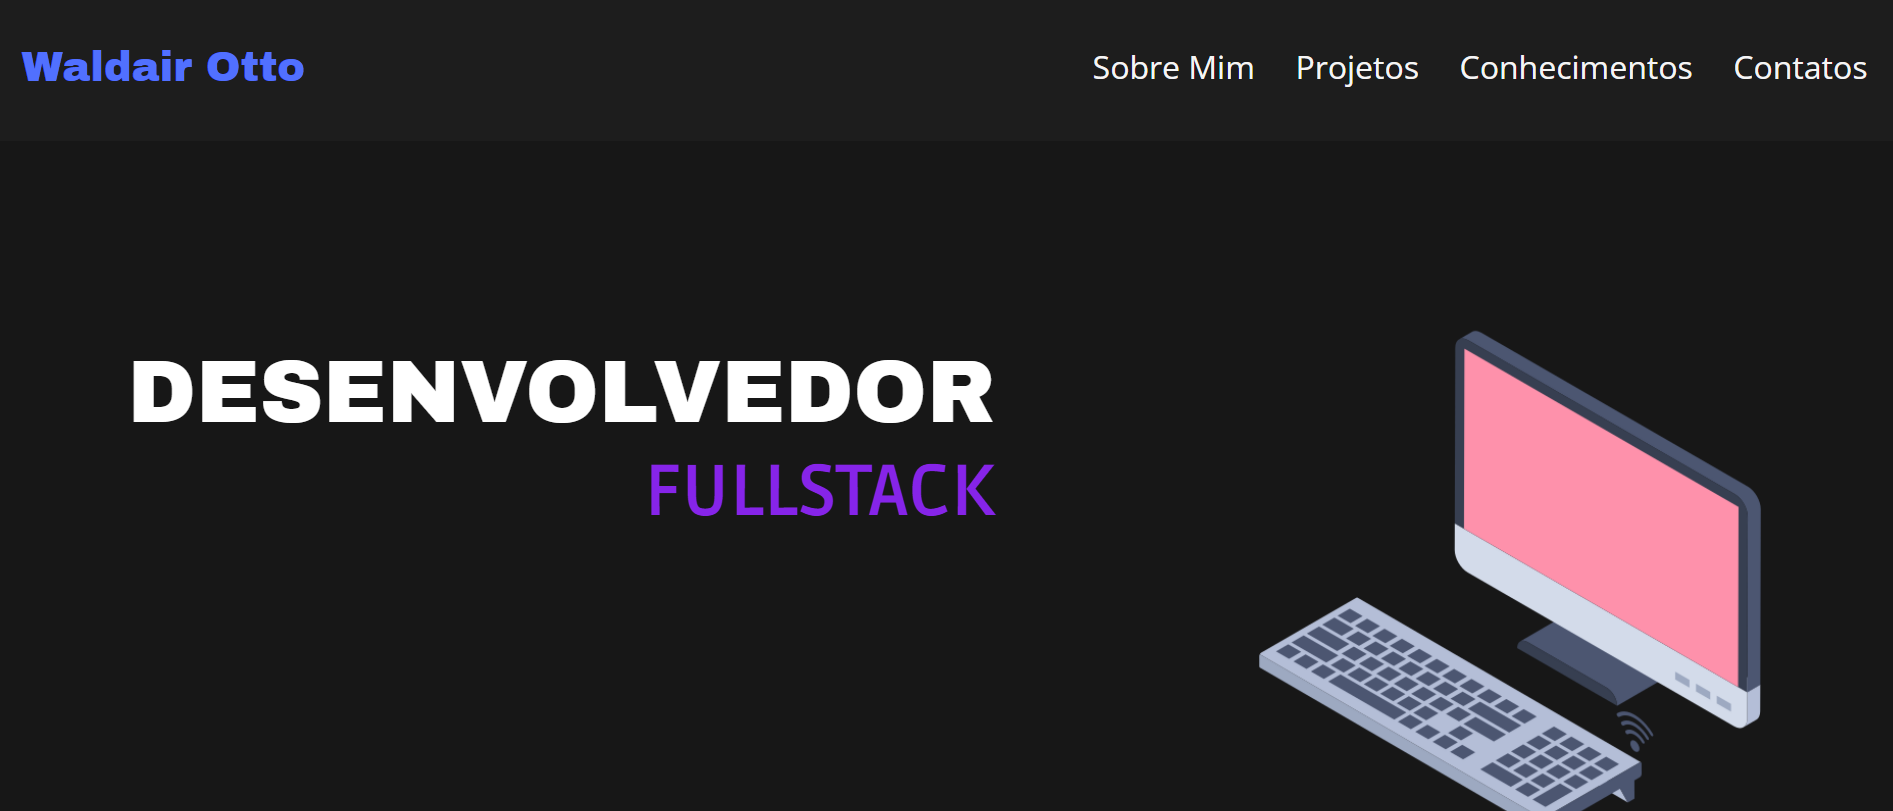
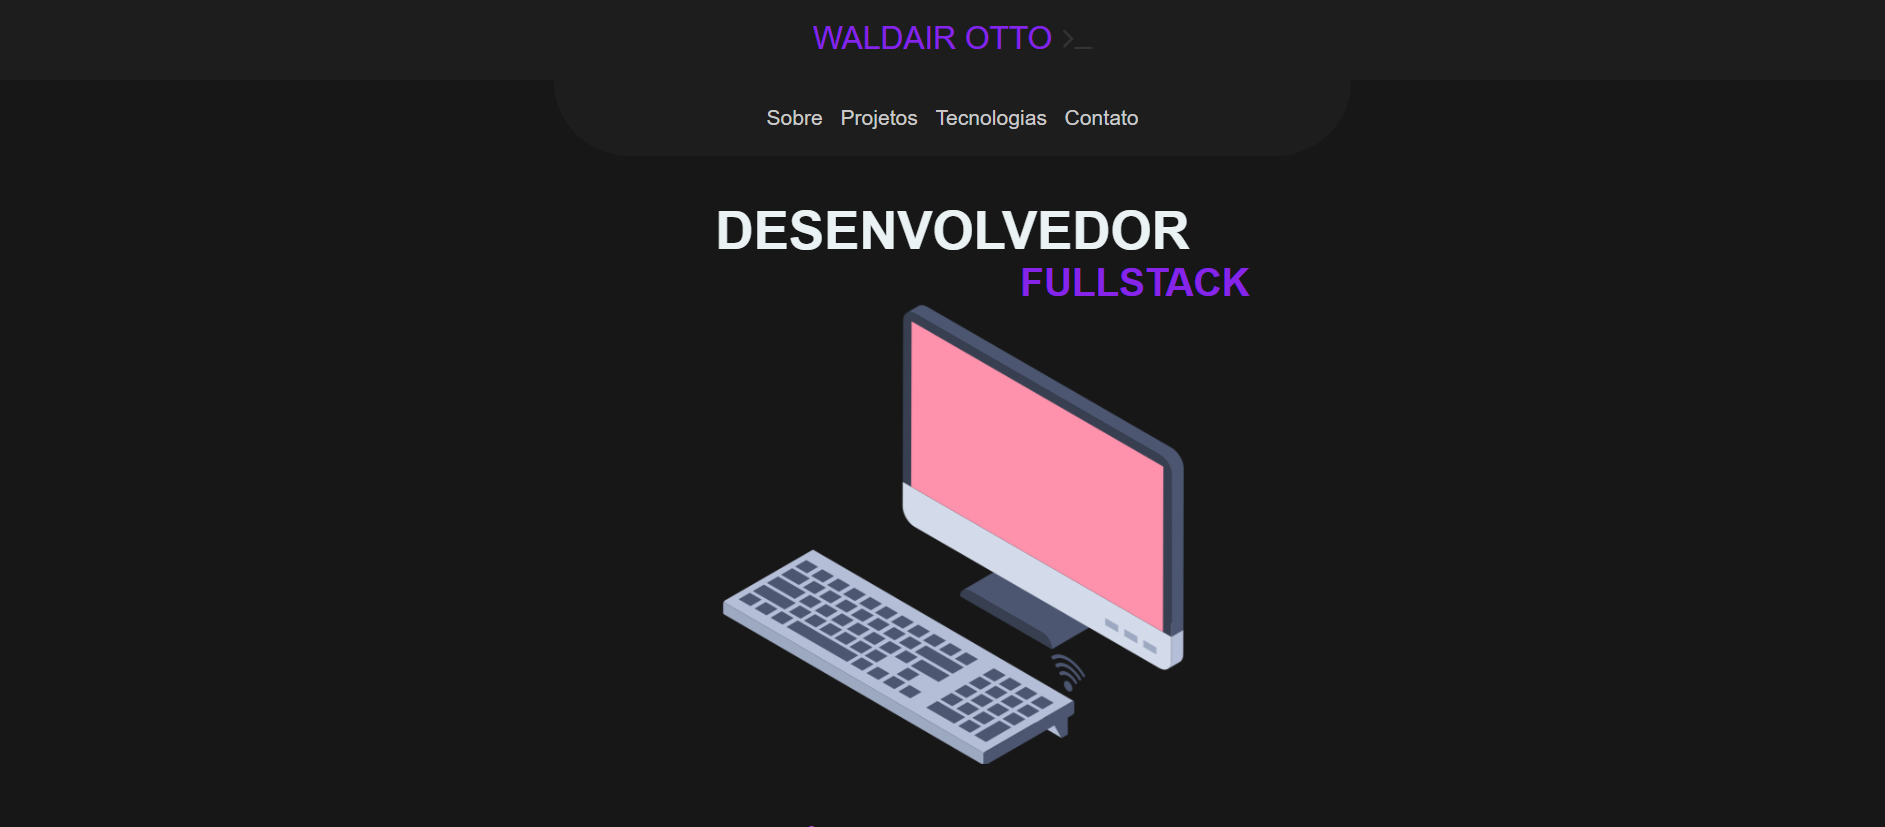
Menu responsivo

diff --git a/index.html b/index.html
@@ -10,9 +10,9 @@
     <title>Waldair Otto</title>
 </head>
 <body>
-    <header class="header">
+    <header class="header"id="header">
         <a class="logo">WALDAIR OTTO <i class="fa fa-terminal" aria-hidden="true"></i></a>
-        <button class="menu-hamburguer" onclick="nav()"><i class="fa fa-bars" aria-hidden="true"></i></button>
+        <button class="menu-hamburguer" onclick="nav()" id="btn-menu"><i class="fa fa-bars" aria-hidden="true"></i></button>
     </header>
     <nav class="nav" id="nav">
             <a href="#aboutme">Sobre</a>
@@ -58,7 +58,7 @@
                         <div class="flex">
                            
                             <h3>
-                                Aprendizagem Industrial de Desinvolvimento de Sistemas da Informação
+                                Aprendizagem Industrial de Desenvolvimento de Sistemas da Informação
                             </h3>
                             <p>
                                 SENAI Videira/SC

diff --git a/script.js b/script.js
@@ -3,10 +3,22 @@ function nav(){
 
     const temClasse = nav.classList.contains('open');
     if (temClasse){
-        nav.classList.toggle('open')
+
+        nav.classList.toggle('open');
+
+        let botao = document.getElementById('btn-menu');
+        botao.innerHTML = `<i class="fa fa-bars" aria-hidden="true">`;
+
+        let header = document.getElementById("header");
+        header.classList.toggle('open');
     }
     else{
-        nav.classList.add('open')
+        nav.classList.add('open');
+        let botao = document.getElementById('btn-menu');
+        botao.innerHTML = "X";
+
+        let header = document.getElementById("header");
+        header.classList.add('open');
     }
     
 }

diff --git a/style.css b/style.css
@@ -534,6 +534,13 @@ section {
     .nav.open {
         left: 40vw;
         display: flex;
+        top: 70px;
+    }
+
+    .header.open{
+        position: fixed;
+        z-index: 10000000000000000000;
+        top: 0;
     }
 
     .nav a:hover {
